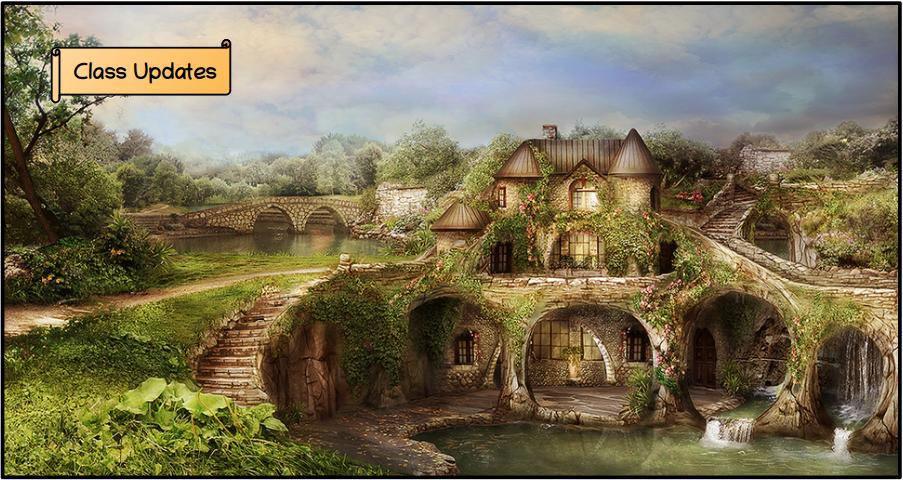
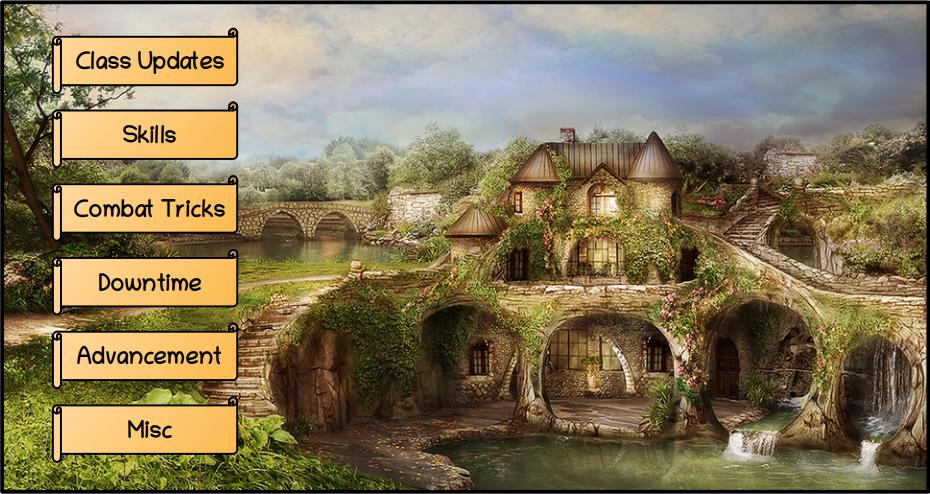
Added more options to house rules and fixed class updates map coordinates.

diff --git a/house_rules.html b/house_rules.html
@@ -17,6 +17,36 @@
        HREF="./class_updates.html"
        TITLE= "Go To Class Updates">
 
+<AREA  SHAPE="rect"
+       COORDS="56,109,236,158"
+       TARGET="_top"
+       HREF="./skills.html"
+       TITLE= "Go To Skills">
+
+<AREA  SHAPE="rect"
+       COORDS="53,184,236,231"
+       TARGET="_top"
+       HREF="http://legacy.aonprd.com/unchained/gameplay/combatTactics.html"
+       TITLE= "Go To Combat Tricks">
+
+<AREA  SHAPE="rect"
+       COORDS="54,259,236,304"
+       TARGET="_top"
+       HREF="http://legacy.aonprd.com/ultimateCampaign/downtime.html"
+       TITLE= "Go To Downtime">
+
+<AREA  SHAPE="rect"
+       COORDS="53,328,235,378"
+       TARGET="_top"
+       HREF="./advancement.html"
+       TITLE= "Go To Advancement">
+
+<AREA  SHAPE="rect"
+       COORDS="54,405,235,453"
+       TARGET="_top"
+       HREF="./misc.html"
+       TITLE= "Go To Misc">
+
 <AREA  SHAPE="default"
        NOHREF>
 </MAP>

diff --git a/class_updates.html b/class_updates.html
@@ -12,25 +12,25 @@
 <MAP NAME="class_updates">
 
 <AREA  SHAPE="rect"
-       COORDS="22,67,226,311"
+       COORDS="20,20,224,267"
        TARGET="_top"
        HREF="http://legacy.aonprd.com/unchained/classes/summoner.html"
        TITLE= "Go To Summoner">
 
 <AREA  SHAPE="rect"
-       COORDS="235,66,444,311"
+       COORDS="232,21,442,267"
        TARGET="_top"
        HREF="http://legacy.aonprd.com/unchained/classes/rogue.html"
        TITLE= "Go To Rogue">
 
 <AREA  SHAPE="rect"
-       COORDS="453,66,656,310"
+       COORDS="449,18,656,267"
        TARGET="_top"
        HREF="http://legacy.aonprd.com/unchained/classes/barbarian.html"
        TITLE= "Go To Barbarian">
 
 <AREA  SHAPE="rect"
-       COORDS="665,65,873,311"
+       COORDS="662,20,872,265"
        TARGET="_top"
        HREF="http://legacy.aonprd.com/unchained/classes/monk.html"
        TITLE= "Go To Monk">
